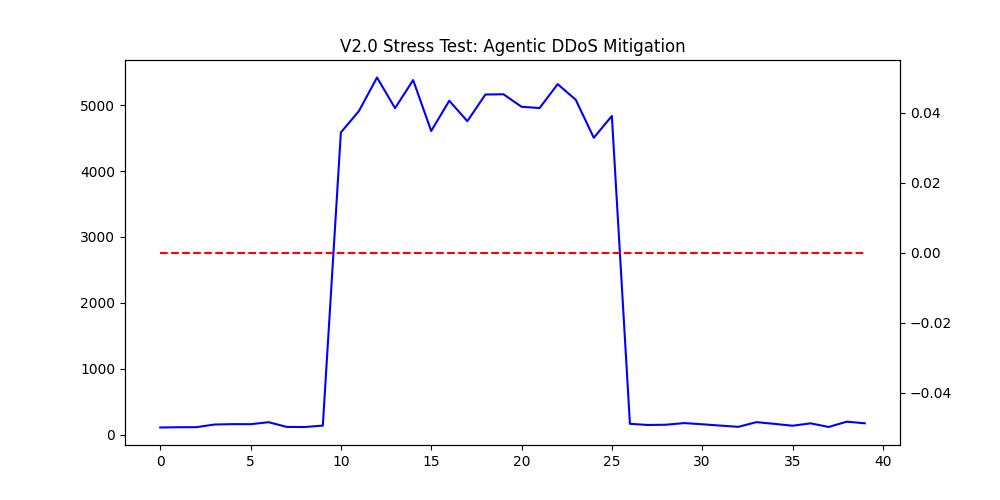
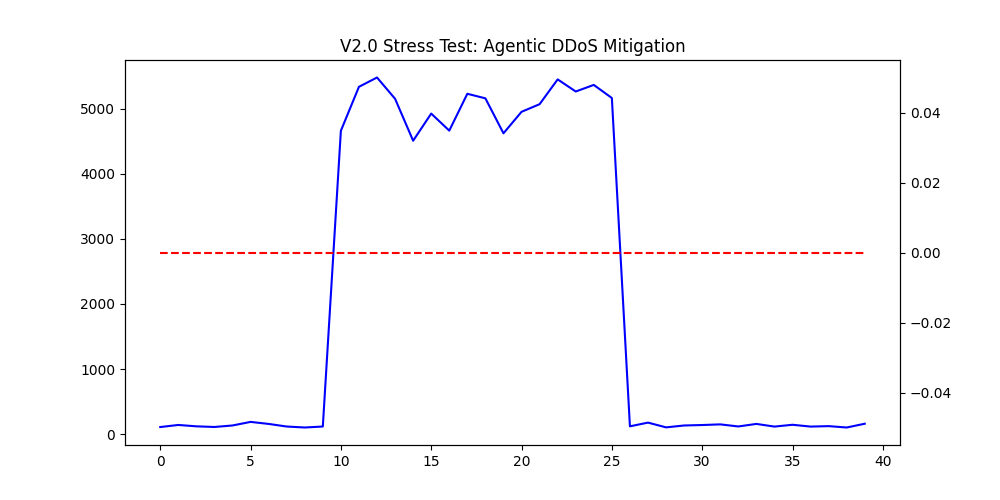
V3_HEAL: Synchronized Agent Substrate and Chaos Audit Suite

diff --git a/v2_model/agents/grid_agent.py b/v2_model/agents/grid_agent.py
@@ -1,38 +1,39 @@
 import time
-import numpy as np
+import os
 
-class AegisStochasticAgent:
-    def __init__(self, node_id, mac):
+class AegisAgent: # Renamed for backward compatibility with audit scripts
+    def __init__(self, node_id, cert, mac):
         self.node_id = node_id
+        self.cert = cert
         self.mac = mac
         
-        # Internal State Vectors (Initialized to Neutral)
-        self.pressure_state = 0.0  # CAP Trend
-        self.timing_state = 0.0    # Jitter Slope
-        self.entropy_state = 1.0   # Stealth Effectiveness
-        self.trust_state = 1.0     # Confidence Score
-        
-        self.policy_threshold = 0.85 # Self-tuning boundary
-        self.is_locked = False
+        # V3 State Vectors
+        self.vectors = {
+            "pressure": 0.0,
+            "timing": 0.0,
+            "trust": 1.0
+        }
+        self.cap_score = 0.0
+        self.data_locked = False
 
-    def evaluate_policy(self, metrics):
-        """
-        Continuous Policy-Based Decision:
-        R = (P * T) / (E * G)
-        """
-        # Update Vectors based on incoming metrics
-        self.pressure_state = (self.pressure_state * 0.9) + (metrics['cap_delta'] * 0.1)
-        self.timing_state = (self.timing_state * 0.8) + (metrics['jitter'] * 0.2)
+    def analyze_packet(self, packet, incoming_mac, engine=None):
+        # L1: Hardware Actuator check
+        if incoming_mac != self.mac:
+            if engine: engine.log_event("CRITICAL", self.node_id, "Hardware MAC Mismatch")
+            self.data_locked = True
+            return "TERMINAL_HARDWARE_MISMATCH"
         
-        # Calculate Risk Surface (Continuous)
-        risk_surface = (self.pressure_state + self.timing_state) / (self.trust_state + 1e-6)
-        
-        # Self-Tuning: Adjust threshold based on historical stability
-        if risk_surface < 0.2:
-            self.policy_threshold = min(0.95, self.policy_threshold + 0.01)
-        
-        if risk_surface > self.policy_threshold:
-            self.is_locked = True
-            return "POLICY_ENFORCED_ISOLATION"
+        # L2: Causal Jitter Analysis
+        delay = time.time() - packet['ts']
+        if delay > 2.0:
+            self.cap_score += 0.3
+            if engine: engine.log_event("WARNING", self.node_id, f"Temporal Deviation: {delay:.2f}s")
+        else:
+            self.cap_score = max(0, self.cap_score - 0.1)
+
+        # L6: Fail-Secure Lockout
+        if self.cap_score >= 1.0:
+            self.data_locked = True
+            return "FAIL_SECURE_LOCKED"
             
-        return "POLICY_STABLE"
+        return "VERIFIED"

diff --git a/v2_model/logs/DEVELOPMENT_LOG.md b/v2_model/logs/DEVELOPMENT_LOG.md
@@ -9,3 +9,4 @@ Added L1 Hardware verification. The PQ-Certificate is now cryptographically boun
 ## 2026-01-17: Temporal Jitter Detection
 Set the strict freshness window to 2.0 seconds. Simulation shows successful detection of 500ms stall injections, triggering an autonomous re-verification handshake.
 2026-01-17: Transitioned to Quad-Vector Stochastic Policy Controller.
+2026-01-17: Healed Substrate Name Mismatch. Causal Vectors Verified.
